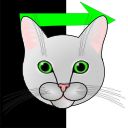
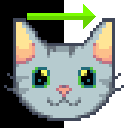
Console tools and bit mask articles

diff --git a/index.js b/index.js
@@ -346,8 +346,8 @@ new Docute({
                     link: '/Customizing/CustomAudio'
                 },
                 {
-                    title: 'Opacity Masks (Transparency Masks)',
-                    link: '/Customizing/OpacityMasks'
+                    title: 'Bit masks (for Vanilla SMBX)',
+                    link: '/Customizing/BitMasks'
                 },
                 {
                     title: 'Editor Themes',
@@ -372,10 +372,6 @@ new Docute({
                     link: '/Tools/ApplicationSettings'
                 },
                 {
-                    title: 'Console tools',
-                    link: '/Tools/ConsoleTools'
-                },
-                {
                     title: 'Development console',
                     link: '/Tools/DevConsole'
                 },
@@ -390,6 +386,27 @@ new Docute({
                 {
                     title: 'Custom data helper tools',
                     link: '/Tools/CustomData'
+                }
+            ]
+        },
+        {
+            title: 'Console tools',
+            children: [
+                {
+                    title: 'GIFs2PNG',
+                    link: '/Tools/Console/GIFs2PNG'
+                },
+                {
+                    title: 'PNG2GIFs',
+                    link: '/Tools/Console/PNG2GIFs'
+                },
+                {
+                    title: 'PaletteFilter',
+                    link: '/Tools/Console/PaletteFilter'
+                },
+                {
+                    title: 'LazyFixTool',
+                    link: '/Tools/Console/LazyFixTool'
                 }
             ]
         },

diff --git a/Customizing/BitMasks.md b/Customizing/BitMasks.md
@@ -1,0 +1,37 @@
+# Transparency bit masks
+When targeting graphics for the vanilla SMBX engine, you should use the special pair of graphics that contains the front
+and mask pictures ready for usage with the Bit Blit algorithm. The [PNG2GIFs](/Tools/Console/PNG2GIFs) utility can be used to simplify the
+conversion of images.
+
+
+## Generic bit masks
+In computer science, a mask or bitmask is data that is used for bitwise operations, particularly in a bit field. 
+Using a mask, multiple bits in a byte, nibble, word etc. can be set either on, off or inverted from on to off 
+(or vice versa) in a single bitwise operation. 
+
+## Image masks
+In computer graphics, when a given image is intended to be placed over a background, the transparent areas can be 
+specified through a binary mask. This way, for each intended image there are actually two bitmaps: the actual 
+image, in which the unused areas are given a pixel value with all bits set to 0s, and an additional mask, in which 
+the correspondent image areas are given a pixel value of all bits set to 0s and the surrounding areas a value of all
+bits set to 1s. In the sample at right, black pixels have the all-zero bits and white pixels have the all-one bits.
+
+At run time, to put the image on the screen over the background, the program first masks the screen pixel's bits with
+the image mask at the desired coordinates using the bitwise AND operation. This preserves the background pixels of the
+transparent areas while resets with zeros the bits of the pixels which will be obscured by the overlapped image.
+
+Then, the program renders the image pixel's bits by combining them with the background pixel's bits using the
+bitwise OR operation. This way, the image pixels are appropriately placed while keeping the background surrounding
+pixels preserved. The result is a perfect compound of the image over the background. 
+
+![src](screenshots/Tools/console/GIFs2PNG/example_src1.gif) ![srcm](screenshots/Tools/console/GIFs2PNG/example_src1m.gif)
+
+This technique is used for painting pointing device cursors, in typical 2-D videogames for characters, bullets and
+so on (the sprites), for GUI icons, and for video titling and other image mixing applications.
+
+Although related (due to being used for the same purposes), transparent colors and alpha channels are techniques
+which do not involve the image pixel mixage by binary masking. 
+
+## Links 
+* [Wikipedia article about bit masks](https://en.wikipedia.org/wiki/Mask_(computing)#Image_masks)
+* [Bit Blit explanation](https://en.wikipedia.org/wiki/Bit_blit)

diff --git a/Tools/Console/GIFs2PNG.md b/Tools/Console/GIFs2PNG.md
@@ -1,0 +1,61 @@
+# GIFs2PNG
+
+![CatGIFs2PNG](screenshots/Tools/console/cat_gif2png_128.png)
+
+**Masked GIFs to PNG Converter** (Known as GIFs2PNG) is a graphical conversion tool that converts SMBX64 GIF images 
+(source image with transparency mask) to PNG images with support to alpha-channel and true color palette. 
+
+## How it works
+This is the bit-mask ready pair: the front picture with a black background, and the bit mask that defines the 
+transparency level:
+
+![src](screenshots/Tools/console/GIFs2PNG/example_src1.gif) ![srcm](screenshots/Tools/console/GIFs2PNG/example_src1m.gif)
+
+After running the tool, the front and mask will be merged into united PNG image that has own transparency: 
+
+![dst](screenshots/Tools/console/GIFs2PNG/example_dst1.png)
+
+## Usage
+
+This is a console utility. To use it you need to run the Terminal at the directory where the GIFs2PNG executable
+located. Alternatively, you can use this utility from your scripts and utilities and run this utility externally.
+```
+USAGE:
+
+   ./GIFs2PNG  [-C </path/to/config/pack>] [-O
+               </path/to/output/directory/>] [-w] [-d] [-b] [-r] [--]
+               [--version] [-h] <Input file path(s)> ...
+
+Where: 
+
+   -C </path/to/config/pack>,  --config </path/to/config/pack>
+     Allow usage of default masks from specific PGE config pack (Useful for
+     cases where the GFX designer didn't make a mask image)
+
+   -O </path/to/output/directory/>,  --output </path/to/output/directory/>
+     path to a directory where the PNG images will be saved
+
+   -w,  --dig-recursive-old
+     Look for images in subdirectories [deprecated]
+
+   -d,  --dig-recursive
+     Look for images in subdirectories
+
+   -b,  --ingnore-bg
+     Skip all "background2-*.gif" sprites
+
+   -r,  --remove
+     Remove source images after a succesful conversion
+
+   --,  --ignore_rest
+     Ignores the rest of the labeled arguments following this flag.
+
+   --version
+     Displays version information and exits.
+
+   -h,  --help
+     Displays usage information and exits.
+
+   <Input file path(s)>  (accepted multiple times)
+     (required)  Input GIF file(s)
+```

diff --git a/Tools/Console/PaletteFilter.md b/Tools/Console/PaletteFilter.md
@@ -1,0 +1,65 @@
+# Palette Filter
+![PalleteFilter](screenshots/Tools/console/pallete_filter_128.png)
+
+**Palette filter** - a tool for color adjuction of images into the pallete of a reference picture.
+
+## How it works
+
+This utility can be used to adjust the palette of any images you have into the given reference picture that
+contains the set of colors of your palette.
+
+This is an example of the reference image that defines the target palette:
+
+![Ref](screenshots/Tools/console/PalleteFilter/reference_example.png)
+
+This is the source image before the filtering:
+
+![Ref](screenshots/Tools/console/PalleteFilter/example_src.png)
+
+After you run the utility, you will get the next result:
+
+![Ref](screenshots/Tools/console/PalleteFilter/example_dst.png)
+
+
+## Usage
+This is a console utility. To use it you need to run the Terminal at the directory where the PaletteFilter executable
+located. Alternatively, you can use this utility from your scripts and utilities and run this utility externally.
+```
+USAGE: 
+
+   ./PaletteFilter  [-O </path/to/output/directory/>] -P <pallete.png> [-w]
+                    [-d] [-n] [--] [--version] [-h] <Input file path(s)>
+                    ...
+
+
+Where: 
+
+   -O </path/to/output/directory/>,  --output </path/to/output/directory/>
+     path to a directory where the fixed images will be saved
+
+   -P <pallete.png>,  --pallete <pallete.png>
+     (required)  Path to the reference PNG or GIF image file for a role of
+     a pallete
+
+   -w,  --dig-recursive-old
+     Look for images in subdirectories [deprecated]
+
+   -d,  --dig-recursive
+     Look for images in subdirectories
+
+   -n,  --no-backup
+     Don't create backup
+
+   --,  --ignore_rest
+     Ignores the rest of the labeled arguments following this flag.
+
+   --version
+     Displays version information and exits.
+
+   -h,  --help
+     Displays usage information and exits.
+
+   <Input file path(s)>  (accepted multiple times)
+     (required)  Input PNG file(s) (GIFs are not supported by this tool)
+```
+

diff --git a/Tools/Console/PNG2GIFs.md b/Tools/Console/PNG2GIFs.md
@@ -1,0 +1,59 @@
+# PNG2GIFs
+
+![CatPGE2GIFs](screenshots/Tools/console/cat_png2gif_128.png)
+
+**PNG to masked GIFs converter** (Known as PNG2GIFs) is a graphical conversion tool that converts a transparent 
+PNG image into a SMBX64 compatible GIF with the transparency mask format. This tool allows you to save a lot of time
+when creating a transparency masks for use in the SMBX game engine.
+
+## How it works
+
+This is a common PNG image with own transparency: 
+
+![src](screenshots/Tools/console/GIFs2PNG/example_dst1.png)
+
+
+After running the tool, the front and it's mask will be generated:
+
+![dst](screenshots/Tools/console/GIFs2PNG/example_src1.gif) ![dstm](screenshots/Tools/console/GIFs2PNG/example_src1m.gif)
+
+Result can be freely used with the vanilla SMBX game and will work properly.
+
+
+## Usage
+This is a console utility. To use it you need to run the Terminal at the directory where the PNG2GIFs executable 
+located. Alternatively, you can use this utility from your scripts and utilities and run this utility externally.
+
+```
+USAGE: 
+
+   ./PNG2GIFs  [-O </path/to/output/directory/>] [-w] [-d] [-r] [--]
+               [--version] [-h] <Input file path(s)> ...
+
+
+Where: 
+
+   -O </path/to/output/directory/>,  --output </path/to/output/directory/>
+     path to a directory where the converted images will be saved
+
+   -w,  --dig-recursive-old
+     Look for images in subdirectories [deprecated]
+
+   -d,  --dig-recursive
+     Look for images in subdirectories
+
+   -r,  --remove
+     Remove source images after successful conversion
+
+   --,  --ignore_rest
+     Ignores the rest of the labeled arguments following this flag.
+
+   --version
+     Displays version information and exits.
+
+   -h,  --help
+     Displays usage information and exits.
+
+   <Input file path(s)>  (accepted multiple times)
+     (required)  Input PNG file(s)
+```

diff --git a/Tools/Console/LazyFixTool.md b/Tools/Console/LazyFixTool.md
@@ -1,0 +1,56 @@
+# LazyFix tool
+![CatGlasses](screenshots/Tools/console/cat_glasses_128.png)
+
+The **LazyFix Tool** is a tool that fixes masks considered invalid or improper (such as when the mask is the 
+same as the front image). 
+
+## How it works
+This is an example of invalid mask (which was made with a lazy effort by a simple copying of the picture):
+
+![lazyFront](screenshots/Tools/console/LazyFix/example_src1.gif) ![lazyBack](screenshots/Tools/console/LazyFix/example_src1m.gif)
+
+After processing, you will get the next result:
+
+![lazyFront](screenshots/Tools/console/LazyFix/example_src1.gif) ![lazyBack](screenshots/Tools/console/LazyFix/example_dst1m.gif)
+
+For the proper bit-mask based sprite, the mask defines the pixel transparency level, and it should never contain the
+copy of original sprite.
+
+## Usage
+This is a console utility. To use it you need to run the Terminal at the directory where the LazyFixTool executable
+located. Alternatively, you can use this utility from your scripts and utilities and run this utility externally.
+ 
+```
+USAGE: 
+
+   ./LazyFixTool  [-O </path/to/output/directory/>] [-w] [-d] [-n] [--]
+                  [--version] [-h] <Input file path(s)> ...
+
+
+Where: 
+
+   -O </path/to/output/directory/>,  --output </path/to/output/directory/>
+     path to a directory where the fixed images will be saved
+
+   -w,  --dig-recursive-old
+     Look for images in subdirectories [deprecated]
+
+   -d,  --dig-recursive
+     Look for images in subdirectories
+
+   -n,  --no-backup
+     Don't create backup
+
+   --,  --ignore_rest
+     Ignores the rest of the labeled arguments following this flag.
+
+   --version
+     Displays version information and exits.
+
+   -h,  --help
+     Displays usage information and exits.
+
+   <Input file path(s)>  (accepted multiple times)
+     (required)  Input GIF file(s)
+
+```
